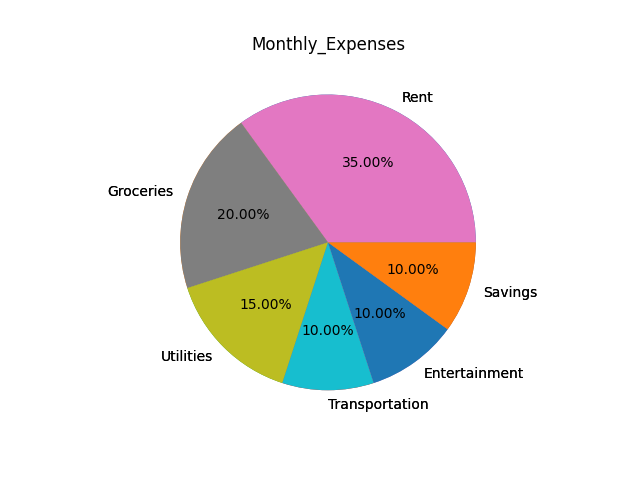
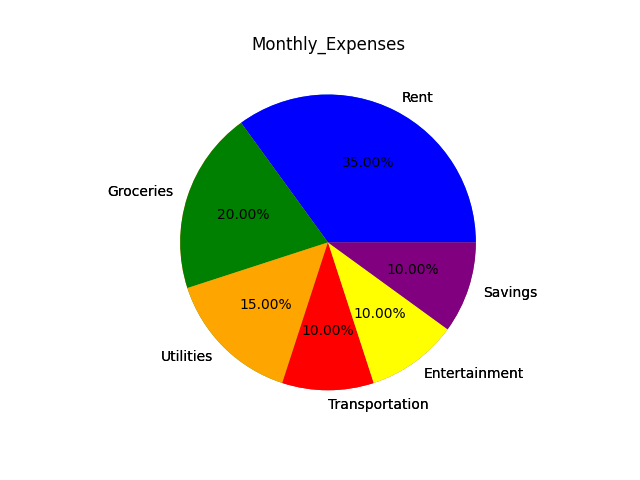
correction

Changed region(s): [[0.2812, 0.1875, 0.75, 0.8125]]

diff --git a/piechart2.py b/piechart2.py
@@ -8,7 +8,8 @@ import numpy as np
 items = ["Rent", "Groceries", "Utilities", "Transportation", "Entertainment", "Savings"]
 data = [35, 20, 15, 10, 10, 10]  # Percentages can be adjusted
 plt.pie(data,labels=items)
-plt.pie(data, labels=items, autopct="%.2f%%")
+colors = ['blue', 'green', 'orange', 'red', 'yellow', 'purple']
+plt.pie(data, labels=items,colors=colors, autopct="%.2f%%")
 plt.title("Monthly_Expenses")
 # plt.show()
 plt.savefig("generatedImage.png")
